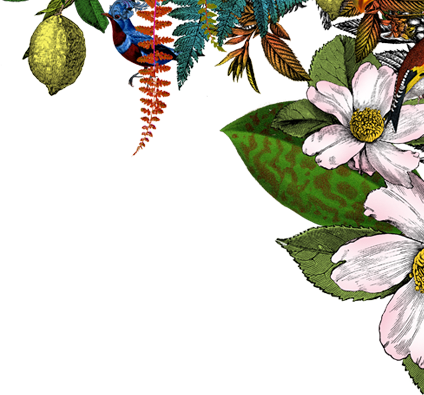
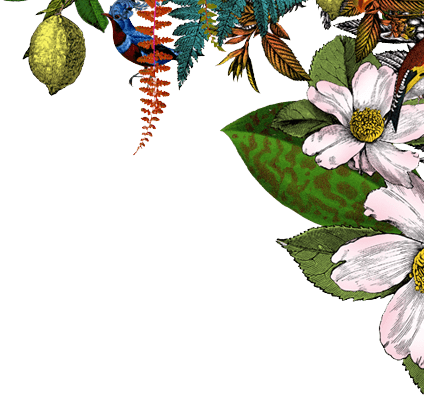
Initial positioning of overlay assets

diff --git a/styles/bundle.css b/styles/bundle.css
@@ -1,2 +1,2 @@
-article,aside,details,figcaption,figure,footer,header,hgroup,main,nav,section,summary{display:block}audio,canvas,video{display:inline-block}audio:not([controls]){display:none;height:0}[hidden],template{display:none}html{font-family:sans-serif;-ms-text-size-adjust:100%;-webkit-text-size-adjust:100%}body{margin:0}a{background:transparent}a:focus{outline:thin dotted}a:active,a:hover{outline:0}h1{font-size:2em;margin:.67em 0}abbr[title]{border-bottom:.0625rem dotted}b,strong{font-weight:700}dfn{font-style:italic}hr{box-sizing:content-box;height:0}mark{background:#ff0;color:#000}code,kbd,pre,samp{font-family:monospace,serif;font-size:1em}pre{white-space:pre-wrap}q{quotes:"\201C" "\201D" "\2018" "\2019"}small{font-size:80%}sub,sup{font-size:75%;line-height:0;position:relative;vertical-align:baseline}sup{top:-.5em}sub{bottom:-.25em}img{border:0}svg:not(:root){overflow:hidden}figure{margin:0}fieldset{border:.0625rem solid silver;margin:0 .125rem;padding:.35em .625em .75em}legend{border:0;padding:0}button,input,select,textarea{font-family:inherit;font-size:100%;margin:0}button,input{line-height:normal}button,select{text-transform:none}button,html input[type=button],input[type=reset],input[type=submit]{-webkit-appearance:button;cursor:pointer}button[disabled],html input[disabled]{cursor:default}input[type=checkbox],input[type=radio]{box-sizing:border-box;padding:0}input[type=search]{-webkit-appearance:textfield;box-sizing:content-box}input[type=search]::-webkit-search-cancel-button,input[type=search]::-webkit-search-decoration{-webkit-appearance:none}button::-moz-focus-inner,input::-moz-focus-inner{border:0;padding:0}textarea{overflow:auto;vertical-align:top}table{border-collapse:collapse;border-spacing:0}@font-face{font-family:Brandon Grotesque;font-weight:ligher;src:url(/fonts/brandon-grotesque/lighter.woff2) format("woff2")}@font-face{font-family:Brandon Grotesque;font-weight:400;src:url(/fonts/brandon-grotesque/normal.woff2) format("woff2")}@font-face{font-family:Brandon Grotesque;font-weight:700;src:url(/fonts/brandon-grotesque/bold.woff2) format("woff2")}@font-face{font-family:Brandon Grotesque;font-weight:bolder;src:url(/fonts/brandon-grotesque/bolder.woff2) format("woff2")}#root button,#root h1,#root p,#root strong{text-align:center}#root p{font-style:italic}#root button{background-color:#acc9b6;border:.0625rem solid #000;border-bottom:.125rem solid #000;border-right:.125rem solid #000;box-shadow:.0625rem .0625rem 0 #000;padding:.875rem 2.75rem}html{box-sizing:border-box;font-family:Brandon Grotesque;-webkit-font-smoothing:antialiased;height:100%}*,:after,:before{box-sizing:inherit;min-height:0;-webkit-tap-highlight-color:rgba(0,0,0,0)}body{-ms-flex-align:center;align-items:center;-ms-flex-pack:center;justify-content:center}#root,body{display:-ms-flexbox;display:flex;height:100%}#root{background-position:50%;background-repeat:no-repeat;background-size:cover;box-sizing:content-box;position:relative}#root,#root>*{width:100%}#root>*{display:-ms-flexbox;display:flex}#component{position:relative;width:100%}.stage{width:100%}#midground{background-color:hsla(0,0%,100%,.95);height:100%;position:absolute;width:100%}#introduction>button,#introduction>img{display:block;height:auto;margin:0 auto}#introduction>img{max-width:11.375rem}#overlay,#reset-button{position:absolute}#reset-button{bottom:0;right:0}#create-bouquet #bouquet-image{display:none}.select-flowers form{display:-ms-flexbox;display:flex;-ms-flex-wrap:wrap;flex-wrap:wrap;-ms-flex-pack:justify;justify-content:space-between}.select-flowers label{cursor:pointer;width:21%}.select-flowers input[type=checkbox]{background-color:blue;background-position:50%;background-repeat:no-repeat;background-size:contain;cursor:inherit;height:6.25rem;width:6.25rem;-webkit-appearance:none;-moz-appearance:none;appearance:none}.select-flowers input[type=checkbox]:checked{background-color:red}.select-flowers input[type=checkbox]:disabled{opacity:.5}@media (orientation:portrait) and (min-width:50rem){#root>*{padding:3.125rem}}@media (min-width:50rem){.select-flowers{-ms-flex-align:center;align-items:center;display:-ms-flexbox;display:flex}.select-flowers>*{width:50%}}@media (orientation:landscape) and (min-width:100rem){body{padding:1.875rem}}@media (orientation:landscape){#root{max-height:60rem;max-width:100rem}#root>*{background-image:url(/images/background/landscape.jpg);padding:3.125%}#reset-button{transform:translateY(100%)}}@media (orientation:landscape) and (max-width:99.9375rem){body{padding:1.876172607879925%}}@media (orientation:portrait){#root>*{background-image:url(/images/background/portrait.jpg)}}@media (orientation:portrait) and (max-width:49.9375rem){#root>*{padding:6.25%}}
+article,aside,details,figcaption,figure,footer,header,hgroup,main,nav,section,summary{display:block}audio,canvas,video{display:inline-block}audio:not([controls]){display:none;height:0}[hidden],template{display:none}html{font-family:sans-serif;-ms-text-size-adjust:100%;-webkit-text-size-adjust:100%}body{margin:0}a{background:transparent}a:focus{outline:thin dotted}a:active,a:hover{outline:0}h1{font-size:2em;margin:.67em 0}abbr[title]{border-bottom:.0625rem dotted}b,strong{font-weight:700}dfn{font-style:italic}hr{box-sizing:content-box;height:0}mark{background:#ff0;color:#000}code,kbd,pre,samp{font-family:monospace,serif;font-size:1em}pre{white-space:pre-wrap}q{quotes:"\201C" "\201D" "\2018" "\2019"}small{font-size:80%}sub,sup{font-size:75%;line-height:0;position:relative;vertical-align:baseline}sup{top:-.5em}sub{bottom:-.25em}img{border:0}svg:not(:root){overflow:hidden}figure{margin:0}fieldset{border:.0625rem solid silver;margin:0 .125rem;padding:.35em .625em .75em}legend{border:0;padding:0}button,input,select,textarea{font-family:inherit;font-size:100%;margin:0}button,input{line-height:normal}button,select{text-transform:none}button,html input[type=button],input[type=reset],input[type=submit]{-webkit-appearance:button;cursor:pointer}button[disabled],html input[disabled]{cursor:default}input[type=checkbox],input[type=radio]{box-sizing:border-box;padding:0}input[type=search]{-webkit-appearance:textfield;box-sizing:content-box}input[type=search]::-webkit-search-cancel-button,input[type=search]::-webkit-search-decoration{-webkit-appearance:none}button::-moz-focus-inner,input::-moz-focus-inner{border:0;padding:0}textarea{overflow:auto;vertical-align:top}table{border-collapse:collapse;border-spacing:0}@font-face{font-family:Brandon Grotesque;font-weight:ligher;src:url(/fonts/brandon-grotesque/lighter.woff2) format("woff2")}@font-face{font-family:Brandon Grotesque;font-weight:400;src:url(/fonts/brandon-grotesque/normal.woff2) format("woff2")}@font-face{font-family:Brandon Grotesque;font-weight:700;src:url(/fonts/brandon-grotesque/bold.woff2) format("woff2")}@font-face{font-family:Brandon Grotesque;font-weight:bolder;src:url(/fonts/brandon-grotesque/bolder.woff2) format("woff2")}#root button,#root h1,#root p,#root strong{text-align:center}#root p{font-style:italic}#root button{background-color:#acc9b6;border:.0625rem solid #000;border-bottom:.125rem solid #000;border-right:.125rem solid #000;box-shadow:.0625rem .0625rem 0 #000;padding:.875rem 2.75rem}html{box-sizing:border-box;font-family:Brandon Grotesque;-webkit-font-smoothing:antialiased;height:100%}*,:after,:before{box-sizing:inherit;min-height:0;-webkit-tap-highlight-color:rgba(0,0,0,0)}body{-ms-flex-align:center;align-items:center;-ms-flex-pack:center;justify-content:center}#root,body{display:-ms-flexbox;display:flex;height:100%}#root{background-position:50%;background-repeat:no-repeat;background-size:cover;box-sizing:content-box;position:relative}#root,#root>*{width:100%}#root>*{display:-ms-flexbox;display:flex}#component{position:relative;width:100%}.stage{width:100%}#midground{background-color:hsla(0,0%,100%,.95);height:100%;position:absolute;width:100%}#introduction>button,#introduction>img{display:block;height:auto;margin:0 auto}#introduction>img{max-width:11.375rem}#overlay,#reset-button{position:absolute}#reset-button{bottom:0;right:0}#create-bouquet #bouquet-image{display:none}.select-flowers form{display:-ms-flexbox;display:flex;-ms-flex-wrap:wrap;flex-wrap:wrap;-ms-flex-pack:justify;justify-content:space-between}.select-flowers label{cursor:pointer;width:21%}.select-flowers input[type=checkbox]{background-color:blue;background-position:50%;background-repeat:no-repeat;background-size:contain;cursor:inherit;height:6.25rem;width:6.25rem;-webkit-appearance:none;-moz-appearance:none;appearance:none}.select-flowers input[type=checkbox]:checked{background-color:red}.select-flowers input[type=checkbox]:disabled{opacity:.5}#overlay{width:100%;height:100%;overflow:hidden;left:0;top:0}#overlay>img{position:absolute;height:auto}#overlay>.top{top:0}#overlay>.right{right:0}#overlay>.bottom{bottom:0}#overlay>.left{left:0}#overlay>#flowersBottom{width:100%;bottom:-3%}#overlay>#flowersBottomRight{width:22%;right:-2.5%;bottom:-10%}#overlay>#flowersMidLeft{width:25%;left:-2%;bottom:10%}#overlay>#flowersTopLeft{width:32%;left:-2%}#overlay>#flowersTopRight{width:30%}#overlay>#lady{width:22%;bottom:0;left:10%}#overlay>#man{width:17%;bottom:-17%;right:9%}#overlay>#peacock{width:30%;bottom:-15%;left:7%}#overlay>#stag{width:34%;bottom:-20%;right:-6%}@media (orientation:portrait) and (min-width:50rem){#root>*{padding:3.125rem}}@media (min-width:50rem){.select-flowers{-ms-flex-align:center;align-items:center;display:-ms-flexbox;display:flex}.select-flowers>*{width:50%}}@media (orientation:landscape) and (min-width:100rem){body{padding:1.875rem}}@media (orientation:landscape){#root{max-height:60rem;max-width:100rem}#root>*{background-image:url(/images/background/landscape.jpg);padding:3.125%}#reset-button{transform:translateY(100%)}}@media (orientation:landscape) and (max-width:99.9375rem){body{padding:1.876172607879925%}}@media (orientation:portrait){#root>*{background-image:url(/images/background/portrait.jpg)}}@media (orientation:portrait) and (max-width:49.9375rem){#root>*{padding:6.25%}}
 /*# sourceMappingURL=bundle.css.map */

diff --git a/src/components/Overlay.jsx b/src/components/Overlay.jsx
@@ -14,15 +14,22 @@ export default class Overlay extends Component {
         }
       >
 
-      <img src="/images/overlay/flowers-bottomright.png" alt="" className="flowers bottom right" />
-      <img src="/images/overlay/flowers-midleft.png" alt="" className="flowers mid left" />
-      <img src="/images/overlay/flowers-topleft.png" alt="" className="flowers top left" />
-      <img src="/images/overlay/flowers-topright.png" alt="" className="flowers top right" />
+        <img id="man" src="/images/overlay/man.png" alt="" />
 
-      <img id="lady"src="/images/overlay/lady.png" alt=""  />
-      <img id="man" src="/images/overlay/man.png" alt="" />
-      <img id="peacock" src="/images/overlay/peacock.png" alt="" />
-      <img id="stag" src="/images/overlay/stag.png" alt="" />
+        <img id="flowersBottomRight" src="/images/overlay/flowers-bottomright.png" alt="" className="flowers bottom right" />
+
+        <img id="flowersMidLeft" src="/images/overlay/flowers-midleft.png" alt="" className="flowers mid left" />
+
+        <img id="lady"src="/images/overlay/lady.png" alt=""  />
+
+        <img id="flowersBottom" className="flowers bottom left" src="/images/overlay/flowers-bottom.png" alt="" />
+
+        <img id="flowersTopLeft" src="/images/overlay/flowers-topleft.png" alt="" className="flowers top left" />
+
+        <img id="flowersTopRight" src="/images/overlay/flowers-topright.png" alt="" className="flowers top right" />
+
+        <img id="peacock" src="/images/overlay/peacock.png" alt="" />
+        <img id="stag" src="/images/overlay/stag.png" alt="" />
 
 
       </div>

diff --git a/styles/partials/_overlay.css b/styles/partials/_overlay.css
@@ -1,0 +1,81 @@
+#overlay {
+  width: 100%;
+  height: 100%;
+  overflow: hidden;
+  left: 0;
+  top: 0;
+
+  > img {
+    position: absolute;
+    height: auto;
+  }
+
+
+  > .top {
+    top: 0;
+  }
+
+  > .right {
+    right: 0;
+  }
+
+  > .bottom {
+    bottom: 0;
+  }
+
+  > .left {
+    left: 0;
+  }
+
+
+  > #flowersBottom {
+    width: 100%;
+    bottom: -3%;
+  }
+
+  > #flowersBottomRight {
+    width: 22%;
+    right: -2.5%;
+    bottom: -10%;
+  }
+
+  > #flowersMidLeft {
+    width: 25%;
+    left: -2%;
+    bottom: 10%;
+  }
+
+  > #flowersTopLeft {
+    width: 32%;
+    left: -2%;
+  }
+
+  > #flowersTopRight {
+    width: 30%;
+  }
+
+  > #lady {
+    width: 22%;
+    bottom: 0;
+    left: 10%;
+  }
+
+  > #man {
+    width: 17%;
+    bottom: -17%;
+    right: 9%;
+  }
+
+  > #peacock {
+    width: 30%;
+    bottom: -15%;
+    left: 7%;
+  }
+
+  > #stag {
+    width: 34%;
+    bottom: -20%;
+    right: -6%;
+  }
+
+}

diff --git a/styles/index.css b/styles/index.css
@@ -9,3 +9,5 @@
 @import "./partials/typography.css";
 @import "./partials/base.css";
 @import "./partials/form.css";
+
+@import "./partials/_overlay.css"
